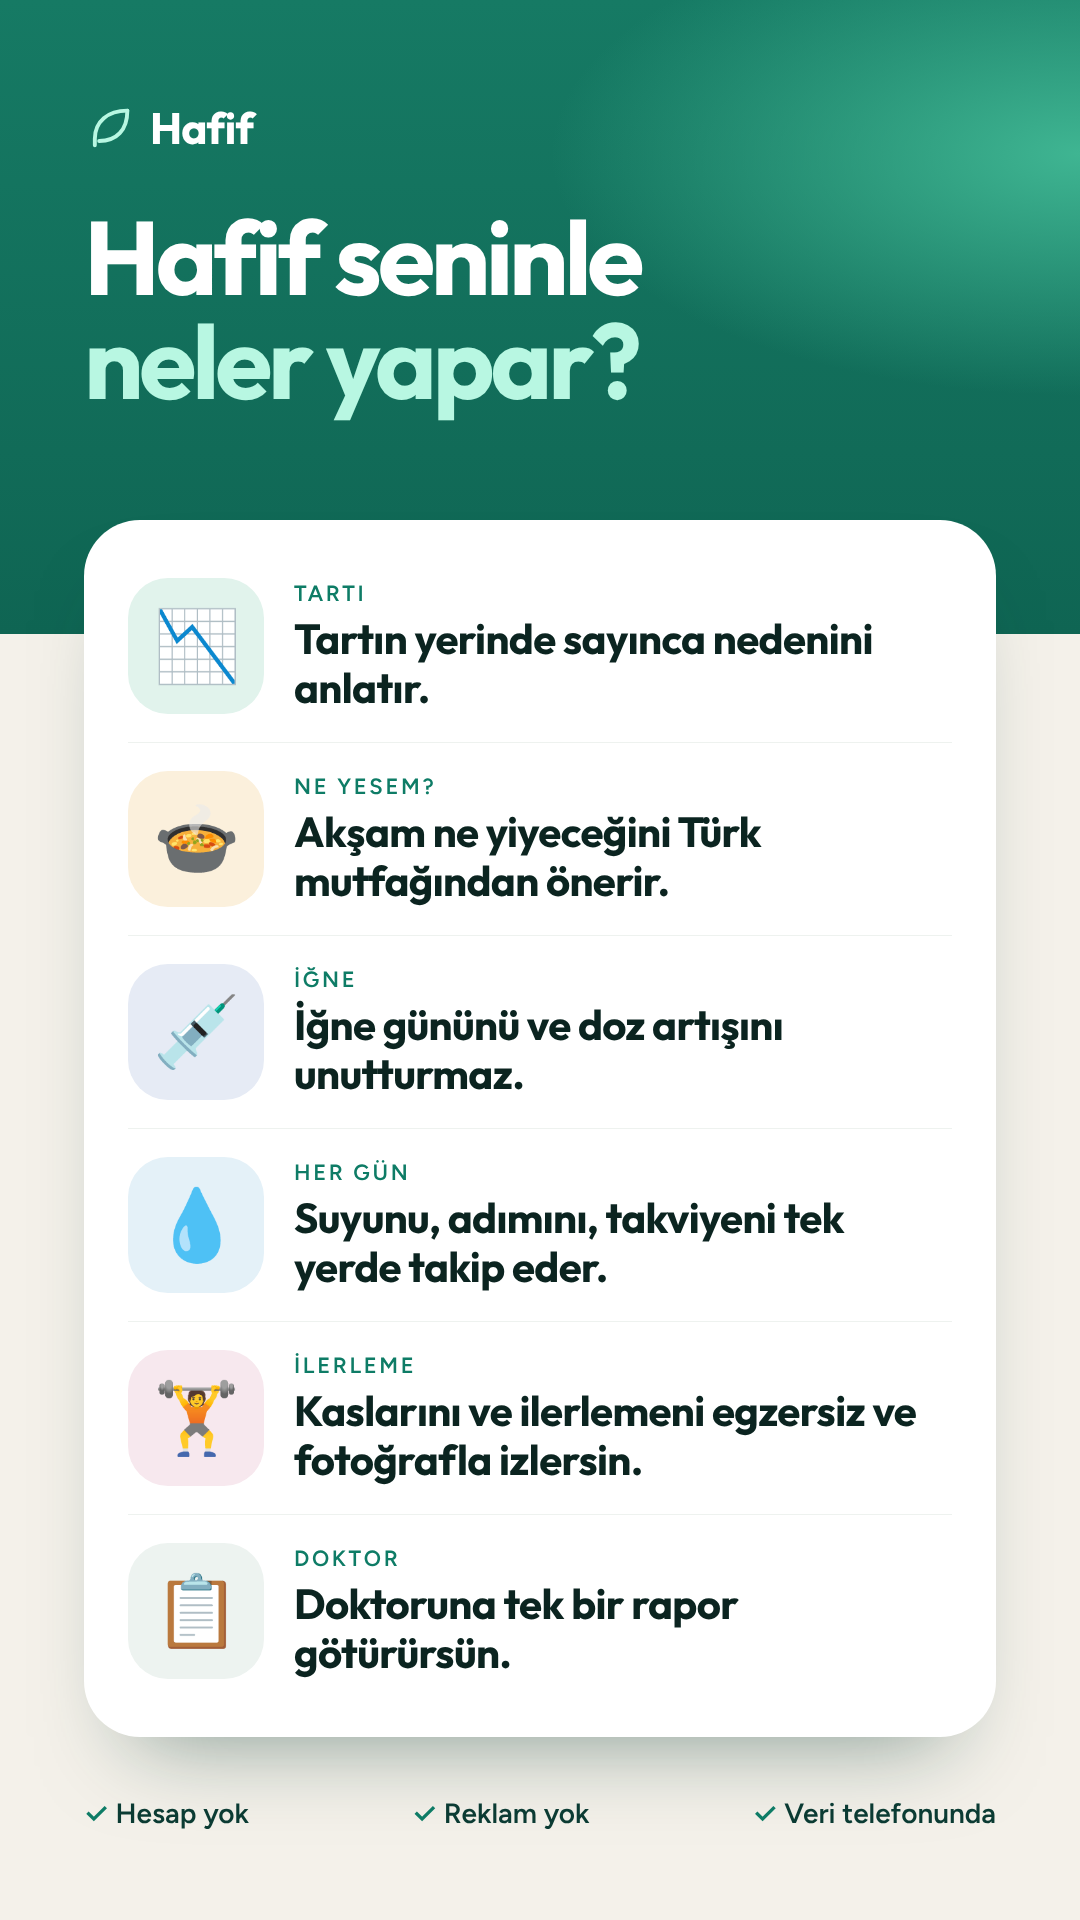
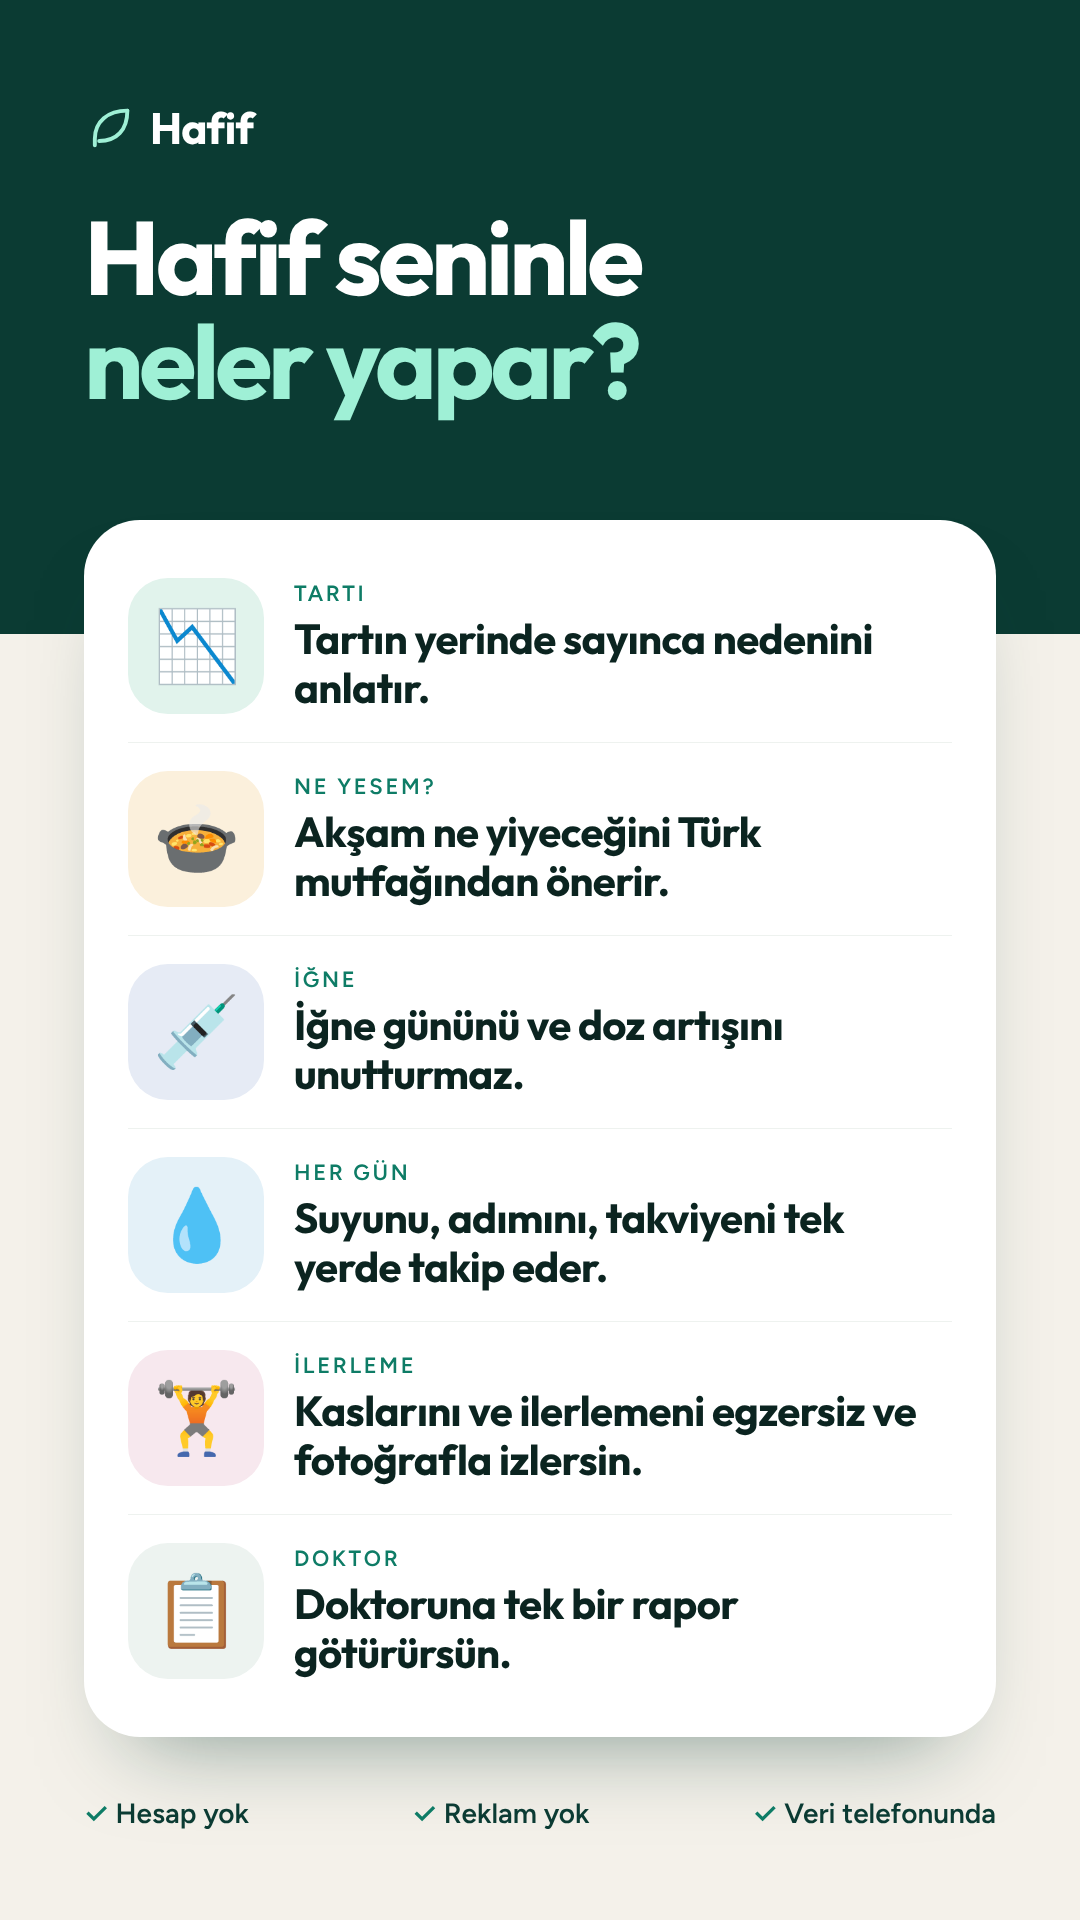
ASO: K üst rengi E'deki zümrüt
Claude-Session: https://claude.ai/code/session_01ERT3WxHgY3bECbR2LgZad1

Changed region(s): [[0.0, 0.0, 1.0, 0.3438]]

diff --git a/magaza/kaynak/aso/kapak-alternatifleri-2.js b/magaza/kaynak/aso/kapak-alternatifleri-2.js
@@ -209,9 +209,9 @@ const J = kapakE({ bg: 'radial-gradient(70% 30% at 100% 15%,#BFEBDB 0%,transpare
 /* ———— K · F'nin cümleleri, E'nin düzeni, emoji ikonlar ———— */
 const SOZ = [['📉','Tartı','Tartın yerinde sayınca nedenini anlatır.','#E1F3EC'],['🍲','Ne yesem?','Akşam ne yiyeceğini Türk mutfağından önerir.','#FBF0DC'],['💉','İğne','İğne gününü ve doz artışını unutturmaz.','#E6EBF5'],['💧','Her gün','Suyunu, adımını, takviyeni tek yerde takip eder.','#E4F1F8'],['🏋','İlerleme','Kaslarını ve ilerlemeni egzersiz ve fotoğrafla izlersin.','#F7E8EE'],['📋','Doktor','Doktoruna tek bir rapor götürürsün.','#EDF3F0']];
 const Kk = `<!doctype html><html><head><meta charset="utf-8">${FONTS}<style>${base}
-.s{background:radial-gradient(70% 18% at 100% 8%,#3FB592 0%,transparent 70%),linear-gradient(180deg,#167A64 0%,#0F6553 33%,#F4F1EA 33%,#F4F1EA 100%);color:#0B2420}
+.s{background:linear-gradient(180deg,#0B3B33 0%,#0B3B33 33%,#F4F1EA 33%,#F4F1EA 100%);color:#0B2420}
 .top{position:absolute;left:84px;right:84px;top:100px;color:#fff}
-h1{margin:50px 0 0;font:700 104px/1.0 Outfit;letter-spacing:-.04em}h1 em{font-style:normal;color:#B8F7E2}
+h1{margin:50px 0 0;font:700 104px/1.0 Outfit;letter-spacing:-.04em}h1 em{font-style:normal;color:#9FF0D6}
 .tl{position:absolute;left:84px;right:84px;top:520px;background:#fff;border-radius:56px;padding:30px 44px;box-shadow:0 50px 90px -50px rgba(11,59,51,.5)}
 .r{display:flex;align-items:center;gap:30px;padding:28px 0}.r+.r{border-top:1px solid #EEF2EF}
 .r .c{width:136px;height:136px;border-radius:40px;display:grid;place-items:center;flex:none;font-size:70px;font-family:"Noto Color Emoji";line-height:1}
@@ -219,7 +219,7 @@ h1{margin:50px 0 0;font:700 104px/1.0 Outfit;letter-spacing:-.04em}h1 em{font-st
 .trust{position:absolute;left:84px;right:84px;bottom:90px;display:flex;justify-content:space-between;font:600 28px Figtree;color:#0B3B33}
 .trust span:before{content:"✓ ";color:#0E7C66}
 </style></head><body><div class="s">
-<div class="top">${logo('#B8F7E2', '#fff')}<h1>Hafif seninle<br><em>neler yapar?</em></h1></div>
+<div class="top">${logo('#9FF0D6', '#fff')}<h1>Hafif seninle<br><em>neler yapar?</em></h1></div>
 <div class="tl">${SOZ.map(([e, t, d, bg]) => `<div class="r"><span class="c" style="background:${bg}">${e}</span><div><small>${t}</small><b>${d}</b></div></div>`).join('')}</div>
 <div class="trust"><span>Hesap yok</span><span>Reklam yok</span><span>Veri telefonunda</span></div>
 </div></body></html>`;
